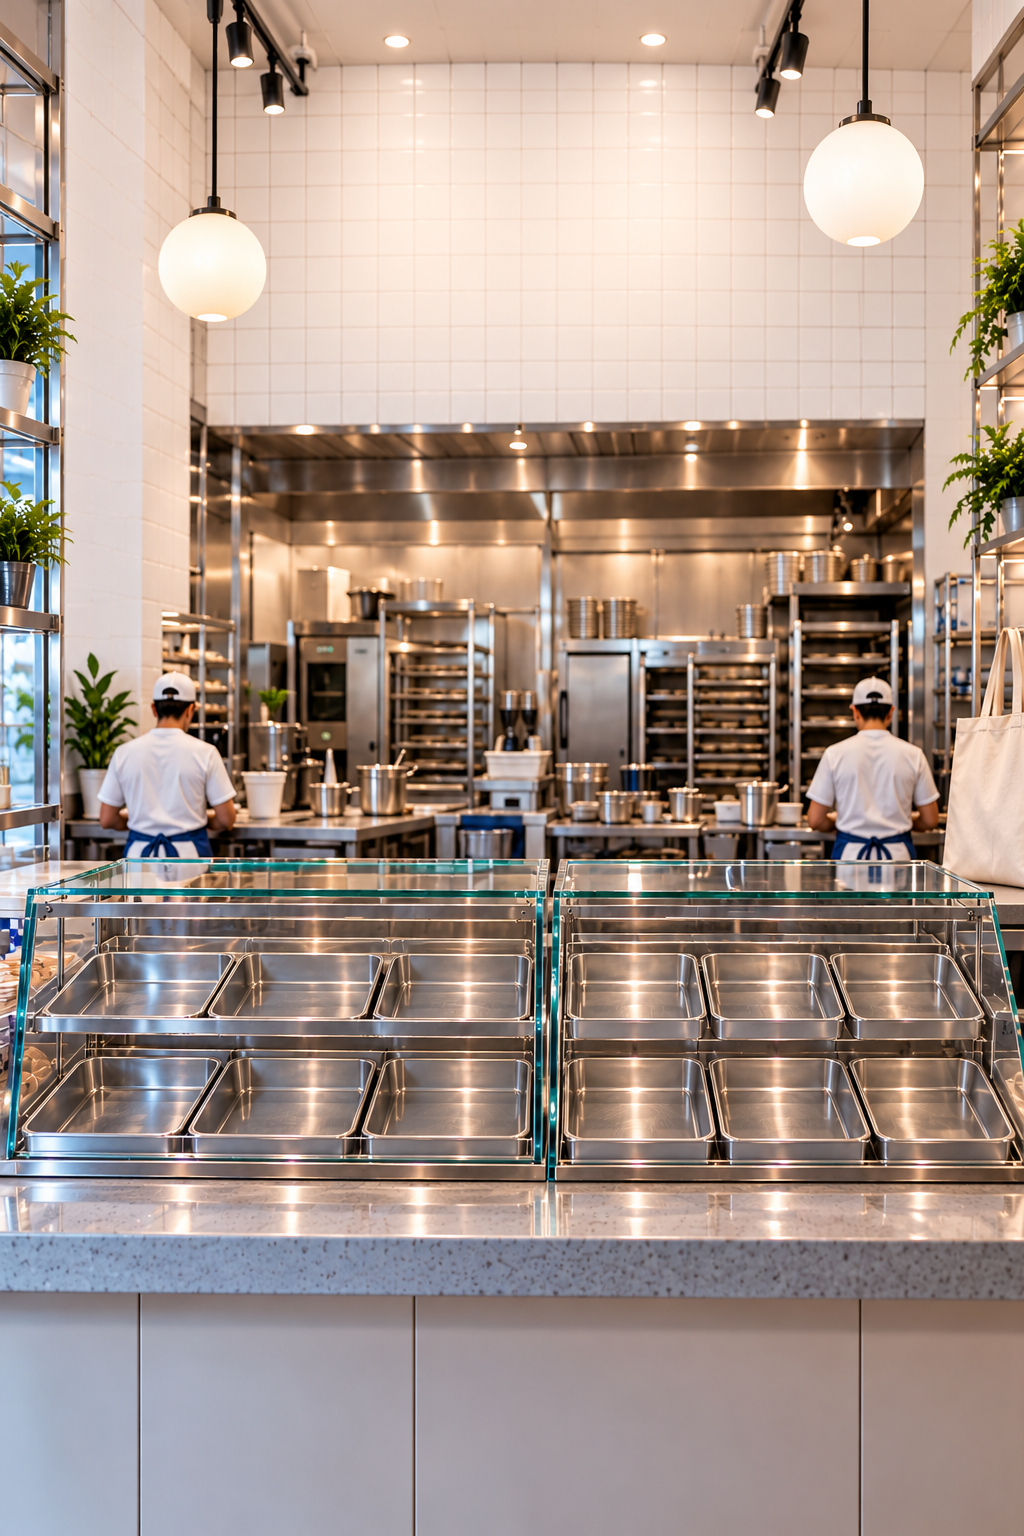
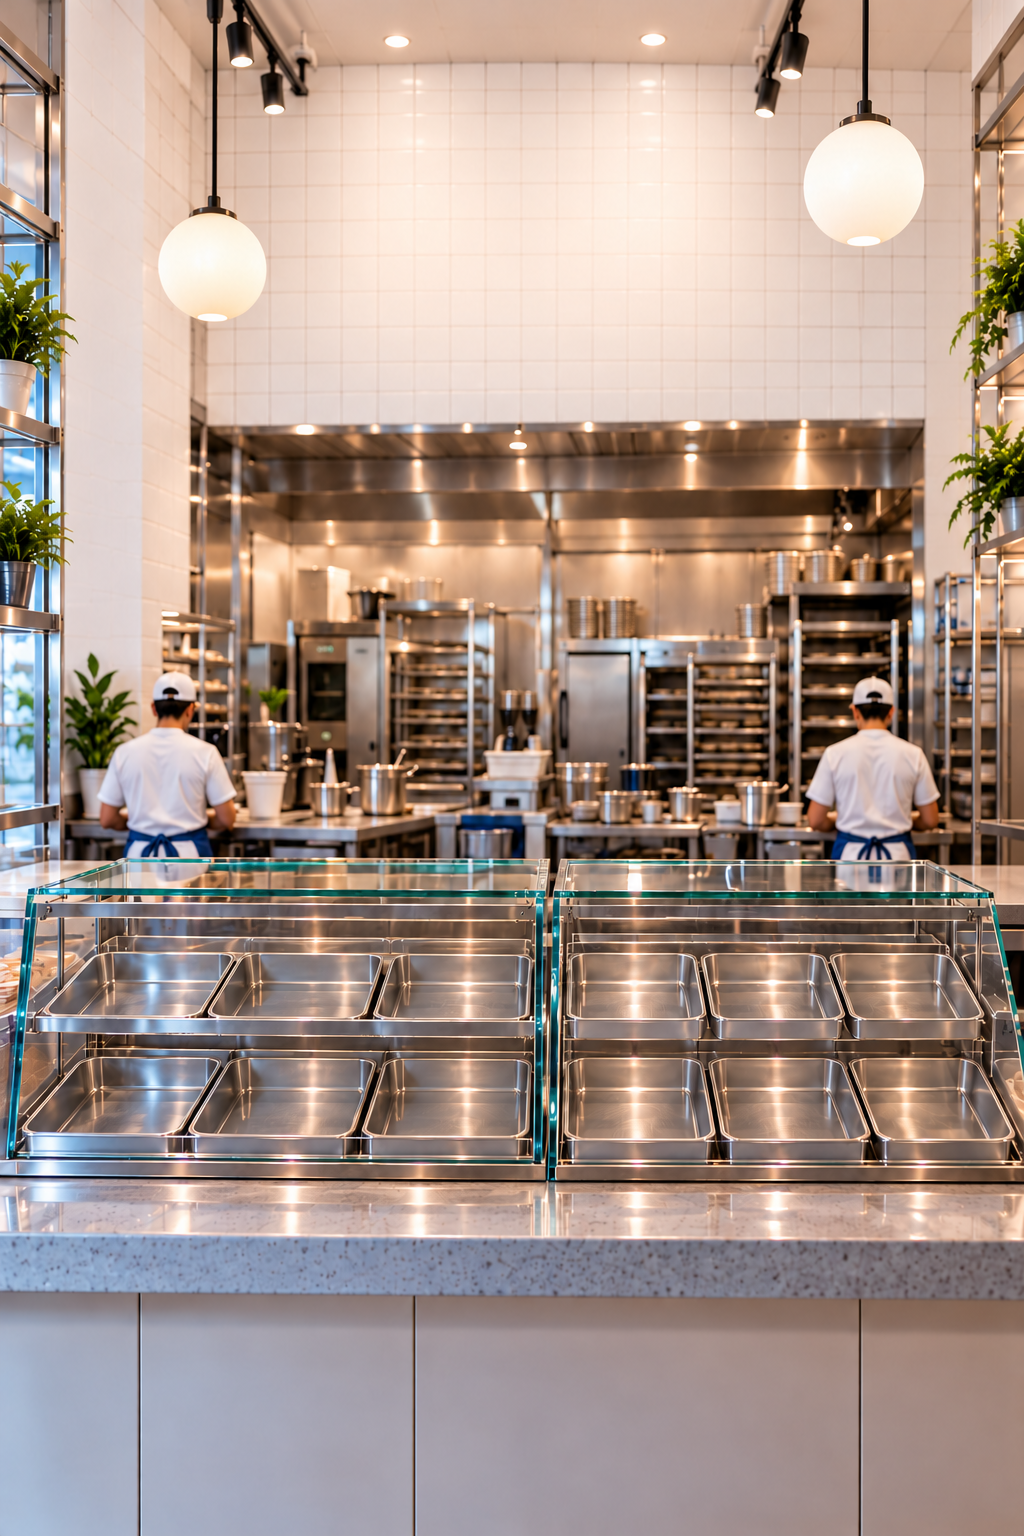
Remove cup stacks and tote from both generated room layers

diff --git a/src/reference/reference-aligned.css b/src/reference/reference-aligned.css
@@ -4,8 +4,7 @@
 .rebuilt-wordmark .rebuilt-tagline { font-size:44px; font-weight:600; letter-spacing:0; stroke:none; }
 .rebuilt-store[data-compact="true"] .rebuilt-tagline { display:none; }
 .rebuilt-store[data-compact="true"] .rebuilt-wall-menu,
-.rebuilt-store[data-compact="true"] .rebuilt-shirt-mark,
-.rebuilt-store[data-compact="true"] .rebuilt-tote-mark { display:none; }
+.rebuilt-store[data-compact="true"] .rebuilt-shirt-mark { display:none; }
 .rebuilt-architecture>picture { filter:none; }
 .rebuilt-room-shade { display:none; }
 .rebuilt-combo-photo { display:block; width:100%; height:100%; object-fit:contain; }
@@ -56,12 +55,10 @@
   .rebuilt-wall-menu>span { font-size:clamp(13px,1.03cqw,20px); line-height:1.35; letter-spacing:-.03em; white-space:nowrap; }
   .rebuilt-shirt-mark { position:absolute; top:47.4%; color:#004aad; font-family:Fredoka,Arial,sans-serif; font-variation-settings:"wdth" 75,"wght" 700; font-size:clamp(12px,.9cqw,20px); text-transform:uppercase; letter-spacing:-.04em; transform:rotate(-3deg); }
   .rebuilt-shirt-mark-left { left:20.6%; }.rebuilt-shirt-mark-right { left:85.4%; transform:rotate(3deg); }
-  .rebuilt-tote-mark { position:absolute; top:44%; right:2.3%; color:#004aad; text-align:center; font-family:Fredoka,Arial,sans-serif; font-variation-settings:"wdth" 75,"wght" 700; font-size:1.4cqw; line-height:.98; text-transform:uppercase; transform:rotate(7deg); }
-  .rebuilt-tote-mark>span { display:block; margin-top:.4cqw; }
 }
 
 @media(max-width:1050px) {
-  .rebuilt-wall-menu,.rebuilt-shirt-mark,.rebuilt-tote-mark { display:none; }
+  .rebuilt-wall-menu,.rebuilt-shirt-mark { display:none; }
   .rebuilt-store[data-compact="false"] .rebuilt-wordmark { margin:0 auto; }
   .rebuilt-counter { position:relative; display:flex; flex-direction:column; gap:18px; width:100%; padding:0; margin:0; border:0; background:none; box-shadow:none; }
   .rebuilt-counter-photo { display:none; }

diff --git a/src/reference/ReferenceScene.tsx b/src/reference/ReferenceScene.tsx
@@ -124,7 +124,6 @@ export function ReferenceScene(props: Props) {
     </aside>
     <span className="rebuilt-shirt-mark rebuilt-shirt-mark-left" aria-hidden="true">Bagelito</span>
     <span className="rebuilt-shirt-mark rebuilt-shirt-mark-right" aria-hidden="true">Bagelito</span>
-    <span className="rebuilt-tote-mark" aria-hidden="true">Good<br />bagels<br />good<br />days<span>☺</span></span>
     <p className="rebuilt-wall-copy rebuilt-wall-copy-right" aria-hidden="true">Hechos para<br />bagel lovers.<span>♡</span></p>
 
     <div className="rebuilt-hero">
